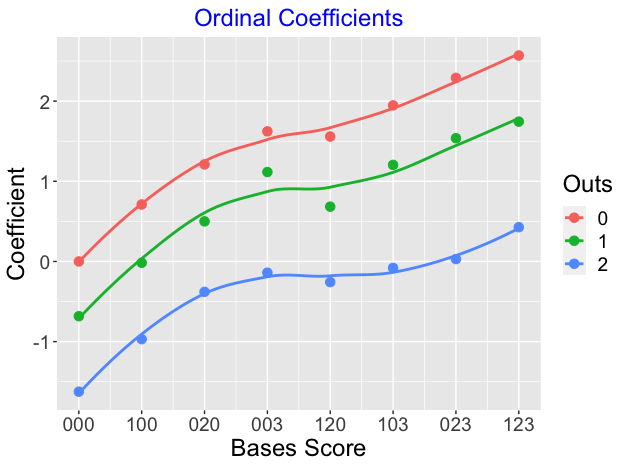
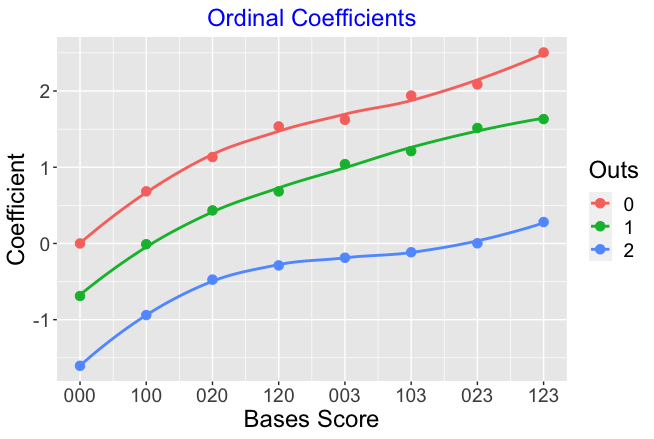
revise runs expectancy

diff --git a/BLOG/Runs_Expectancy.html b/BLOG/Runs_Expectancy.html
@@ -491,11 +491,10 @@ logit P(category \, k \, or \, smaller) = a_k
 <h3 data-number="6.5" class="anchored" data-anchor-id="a-new-table"><span class="header-section-number">6.5</span> A New Table</h3>
 <p>By letting runs scored be an ordinal response and fitting an ordinal logistic model, we obtain a new table of regression coefficients (called a Runs Advantage Table) that gives the advantage of a new situation over the “000 0” state.</p>
 <pre><code>              RUNS ADVANTAGE TABLE
-              
-    000   100   020   003   120  103  023  123
-0  0.00  0.75  1.23  1.59  1.58 2.05 2.29 2.60
-1 -0.67  0.04  0.55  1.23  0.77 1.37 1.64 1.70
-2 -1.60 -0.96 -0.34 -0.03 -0.20 0.06 0.05 0.43</code></pre>
+     000   100   020   120   003   103  023  123
+ 0  0.00  0.68  1.13  1.54  1.62  1.94 2.09 2.51
+ 1 -0.69 -0.01  0.43  0.68  1.04  1.21 1.52 1.63
+ 2 -1.60 -0.94 -0.47 -0.29 -0.19 -0.12 0.00 0.28</code></pre>
 <p>To make sense of this new table …</p>
 <ul>
 <li>Remember, by model definition the “000 0” state has a value of run advantage 0. Negative run advantage values correspond to runner/outs states that are worse (in terms of scoring runs potential) then the “000 0” state. Positive values (like the “120 0” state) correspond to situations that are more advantageous for scoring runs.</li>
@@ -509,8 +508,8 @@ logit \left(\frac{scoring \le k}{scoring &gt; k}\right)
 <section id="graphing-the-effects" class="level3" data-number="6.6">
 <h3 data-number="6.6" class="anchored" data-anchor-id="graphing-the-effects"><span class="header-section-number">6.6</span> Graphing the Effects</h3>
 <p>As I did earlier for the runs expectancy table, I can graph the run advantages of the different situations (the regression coefficients) as a function of the bases score defined by</p>
-<p>Bases Score = Sum(bases occupied) + I(# of Runners &gt; 1).</p>
-<p>As before, the color of the point corresponds to the number of outs and I have added smoothing curves to show the basic pattern of these run advantage values.</p>
+<p>Bases Score = sum of runner on bases weights,</p>
+<p>where runners on 1st, 2nd, and 3rd are assigned weights of 1, 2, and 4. As before, the color of the point corresponds to the number of outs and I have added smoothing curves to show the basic pattern of these run advantage values.</p>
 <p><img src="figures/expectancy/runs9.png" class="img-fluid" style="width:70.0%"></p>
 <ul>
 <li>The general behavior of these ordinal model coefficients is similar to the behavior of the runs expectancy values. As the bases score increases, there is an increasing trend in the coefficients.</li>
